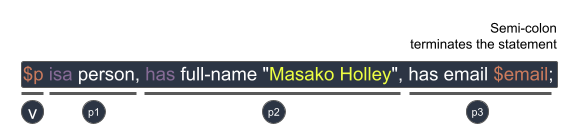
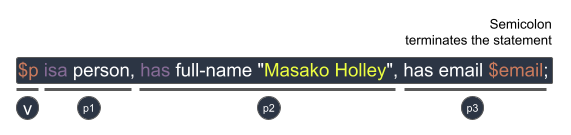
Minor fixes

Changed region(s): [[0.0298, 0.4148, 0.9825, 0.9185], [0.6848, 0.1481, 0.9825, 0.3556]]

diff --git a/0001-typedb/02-dev/03-match.md b/0001-typedb/02-dev/03-match.md
@@ -49,7 +49,7 @@ at the constructs of a basic match clause.
 - A TypeQL variable is prefixed with a dollar sign `$`. Most statements start with a variable (`V`) providing a concept
   reference. For more information on variables please see Variables section.
 
-- The variable is followed by a comma-separated list of properties (`P1`, `P2`, `P3`) describing the concepts the 
+- The variable is followed by a comma-separated list of properties (`p1`, `p2`, `p3`) describing the concepts the 
   variable refers to. Here we can see that all the concepts that variable `$p` refers to, must be of type person. The 
   matched instances are expected to own an attribute of type `full-name` with the value of `Masako Holley`. Additionally, 
   we require the concepts to own an attribute of type `email` with any value. We assign an extra `$email` variable to 
@@ -153,9 +153,9 @@ By arranging statements together, we can express more complex pattern scenarios 
 - Conjunction: a set of patterns where to satisfy a match, all patterns must be matched. We use conjunctions by default 
   just by separating the partaking patterns with semicolons `;`.
 - Disjunction: a set of patterns where to satisfy a match, at least one pattern must be matched. We form
-  disjunctions by enclosing the partaking patterns within curly braces {} and interleaving them with the or keyword.
+  disjunctions by enclosing the partaking patterns within curly braces `{}` and interleaving them with the `or` keyword.
 - Negation: defines a conjunctive pattern that explicitly defines conditions not to be met. We form negations by 
-  defining the pattern of interest inside a not {}; block.
+  defining the pattern of interest inside a `not {};` block.
 
 ## Match clause
 
